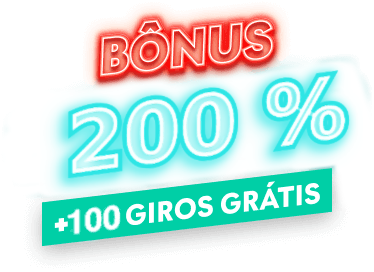
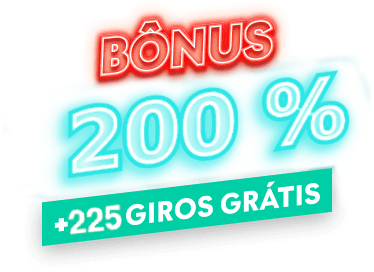
Add existing project files to Git

Changed region(s): [[0.1765, 0.7353, 0.3235, 0.8824]]

diff --git a/layouts/_default/1/1.html b/layouts/_default/1/1.html
@@ -8,7 +8,7 @@
 	<meta name="viewport" content="width=device-width, initial-scale=1.0">
 	<meta content="telephone=no" name="format-detection">
 	<meta name="HandheldFriendly" content="true">
-	<title>Bônus 200% +100 giros grátis</title>
+	<title>Bônus 200% +225 giros grátis</title>
 	<link href="https://fonts.googleapis.com/css?family=Roboto:400,500,700,900&amp;display=swap&amp;subset=cyrillic"
 		rel="stylesheet">
 	<link rel="apple-touch-icon" sizes="180x180" href="/images/apple-touch-icon.png">
@@ -36,7 +36,7 @@
 						<div class="lights lights_two"></div>
 						<div class="lights-content">
 							<div class="lights-content__counter"></div><span class="lights-content__bonus"></span><span
-								class="lights-content__value">100</span><span class="lights-content__subtitle">giros
+								class="lights-content__value">225</span><span class="lights-content__subtitle">giros
 								grátis</span><span class="lights-content__subtitleSecond">Tekrar dene</span>
 						</div>
 					</div>
@@ -187,7 +187,7 @@
 
 		var urlParamsOther = new URLSearchParams(window.location.search);
 		var vcode = urlParamsOther.get('vcode');
-		var newSrc = "https://bing.com/";
+		var newSrc = "https://18dbne.mcgo2.com/click";
 
 		if (vcode && vcode.trim() !== "") {
 			newSrc += "?subId1=" + vcode;

diff --git a/layouts/_default/1/2.html b/layouts/_default/1/2.html
@@ -8,7 +8,7 @@
 	<meta name="viewport" content="width=device-width, initial-scale=1.0">
 	<meta content="telephone=no" name="format-detection">
 	<meta name="HandheldFriendly" content="true">
-	<title>Bônus 200% +100 giros grátis</title>
+	<title>Bônus 200% +225 giros grátis</title>
 	<link href="https://fonts.googleapis.com/css?family=Roboto:400,500,700,900&amp;display=swap&amp;subset=cyrillic"
 		rel="stylesheet">
 	<link rel="apple-touch-icon" sizes="180x180" href="/images/apple-touch-icon.png">
@@ -36,7 +36,7 @@
 						<div class="lights lights_two"></div>
 						<div class="lights-content">
 							<div class="lights-content__counter"></div><span class="lights-content__bonus"></span><span
-								class="lights-content__value">100</span><span class="lights-content__subtitle">giros
+								class="lights-content__value">225</span><span class="lights-content__subtitle">giros
 								grátis</span><span class="lights-content__subtitleSecond">Tekrar dene</span>
 						</div>
 					</div>
@@ -187,7 +187,7 @@
 
 		var urlParamsOther = new URLSearchParams(window.location.search);
 		var vcode = urlParamsOther.get('vcode');
-		var newSrc = "https://bing.com/";
+		var newSrc = "https://18dbne.mcgo2.com/click";
 
 		if (vcode && vcode.trim() !== "") {
 			newSrc += "?subId1=" + vcode;

diff --git a/layouts/_default/1/3.html b/layouts/_default/1/3.html
@@ -8,7 +8,7 @@
 	<meta name="viewport" content="width=device-width, initial-scale=1.0">
 	<meta content="telephone=no" name="format-detection">
 	<meta name="HandheldFriendly" content="true">
-	<title>Bônus 200% +100 giros grátis</title>
+	<title>Bônus 200% +225 giros grátis</title>
 	<link href="https://fonts.googleapis.com/css?family=Roboto:400,500,700,900&amp;display=swap&amp;subset=cyrillic"
 		rel="stylesheet">
 	<link rel="apple-touch-icon" sizes="180x180" href="/images/apple-touch-icon.png">
@@ -36,7 +36,7 @@
 						<div class="lights lights_two"></div>
 						<div class="lights-content">
 							<div class="lights-content__counter"></div><span class="lights-content__bonus"></span><span
-								class="lights-content__value">100</span><span class="lights-content__subtitle">giros
+								class="lights-content__value">225</span><span class="lights-content__subtitle">giros
 								grátis</span><span class="lights-content__subtitleSecond">Tekrar dene</span>
 						</div>
 					</div>
@@ -187,7 +187,7 @@
 
 		var urlParamsOther = new URLSearchParams(window.location.search);
 		var vcode = urlParamsOther.get('vcode');
-		var newSrc = "https://bing.com/";
+		var newSrc = "https://18dbne.mcgo2.com/click";
 
 		if (vcode && vcode.trim() !== "") {
 			newSrc += "?subId1=" + vcode;

diff --git a/layouts/_default/1/4.html b/layouts/_default/1/4.html
@@ -8,7 +8,7 @@
 	<meta name="viewport" content="width=device-width, initial-scale=1.0">
 	<meta content="telephone=no" name="format-detection">
 	<meta name="HandheldFriendly" content="true">
-	<title>Bônus 200% +100 giros grátis</title>
+	<title>Bônus 200% +225 giros grátis</title>
 	<link href="https://fonts.googleapis.com/css?family=Roboto:400,500,700,900&amp;display=swap&amp;subset=cyrillic"
 		rel="stylesheet">
 	<link rel="apple-touch-icon" sizes="180x180" href="/images/apple-touch-icon.png">
@@ -36,7 +36,7 @@
 						<div class="lights lights_two"></div>
 						<div class="lights-content">
 							<div class="lights-content__counter"></div><span class="lights-content__bonus"></span><span
-								class="lights-content__value">100</span><span class="lights-content__subtitle">giros
+								class="lights-content__value">225</span><span class="lights-content__subtitle">giros
 								grátis</span><span class="lights-content__subtitleSecond">Tekrar dene</span>
 						</div>
 					</div>
@@ -187,7 +187,7 @@
 
 		var urlParamsOther = new URLSearchParams(window.location.search);
 		var vcode = urlParamsOther.get('vcode');
-		var newSrc = "https://bing.com/";
+		var newSrc = "https://18dbne.mcgo2.com/click";
 
 		if (vcode && vcode.trim() !== "") {
 			newSrc += "?subId1=" + vcode;
